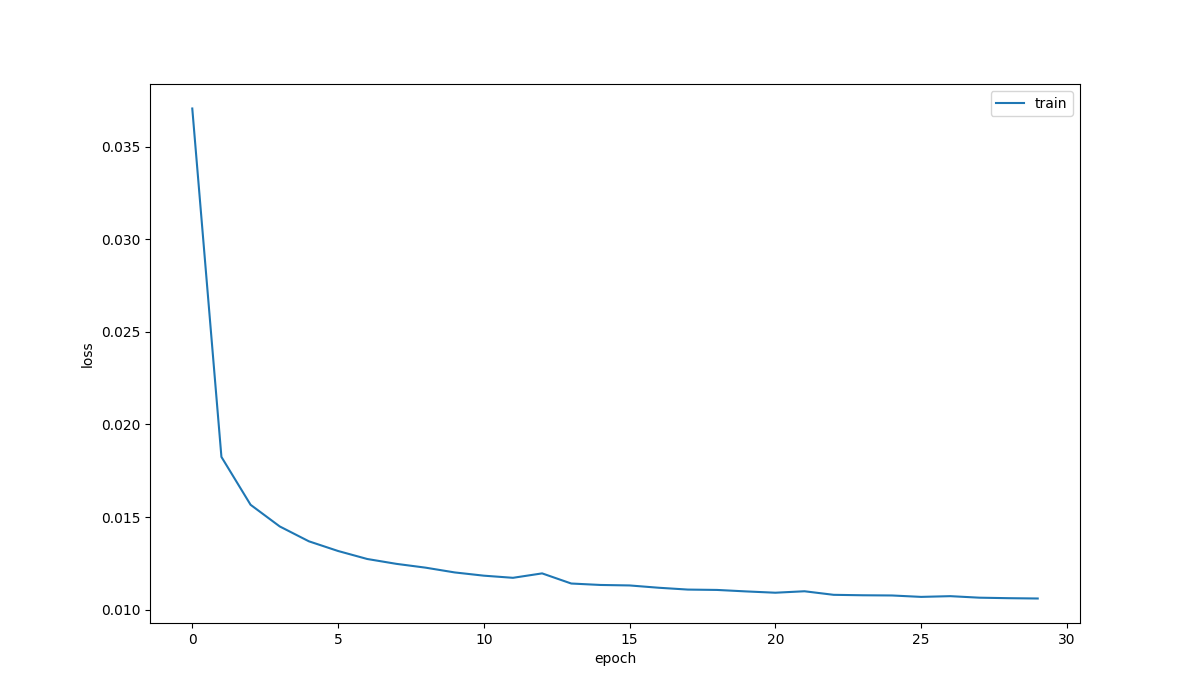
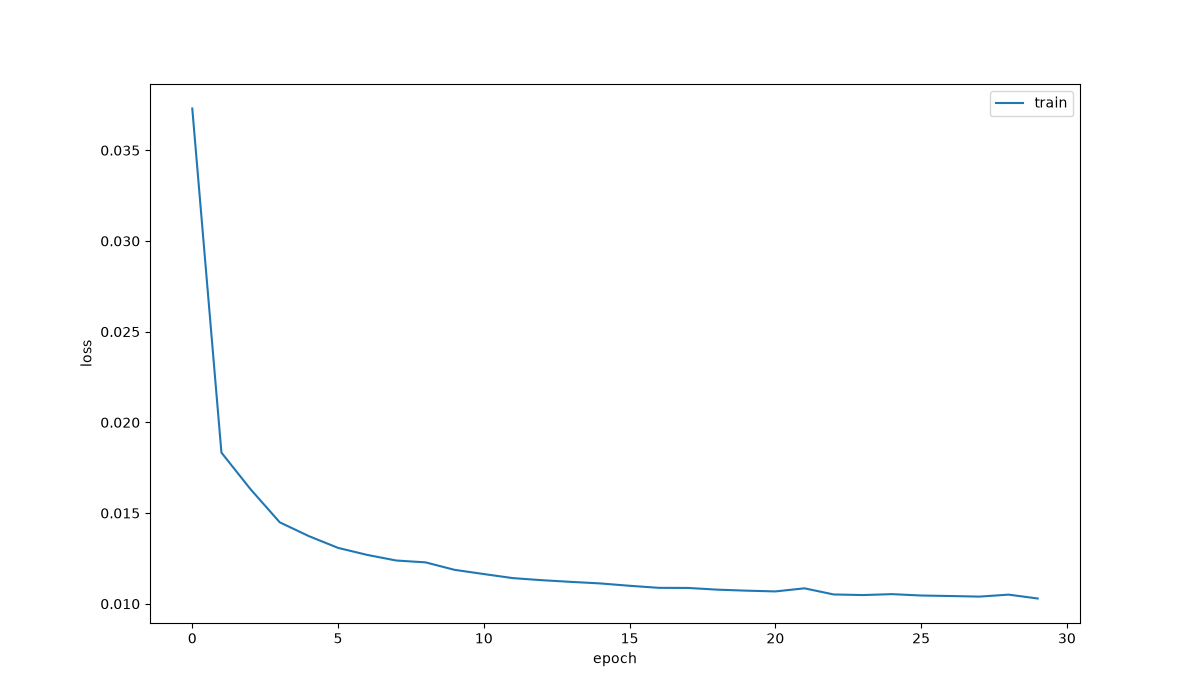
Update lab 1

diff --git a/Assignments/lab1/interpolate.py b/Assignments/lab1/interpolate.py
@@ -1,0 +1,124 @@
+import argparse
+
+import matplotlib.pyplot as plt
+import numpy as np
+import torch
+import torchvision.transforms as transforms
+from torchvision.datasets import FashionMNIST
+
+from model import autoencoderMLP4Layer
+
+DATA_DIR = './data'   # change if using Colab
+
+CLASSES = ['T-shirt/top', 'Trouser', 'Pullover', 'Dress', 'Coat',
+           'Sandal', 'Shirt', 'Sneaker', 'Bag', 'Ankle boot']
+
+n = 8
+
+
+def main():
+    print('running main ...')
+
+    argParser = argparse.ArgumentParser()
+    argParser.add_argument('-s', metavar='state', type=str, help='parameter file (.pth)')
+    argParser.add_argument('-z', metavar='bottleneck size', type=int, help='int [8]')
+
+    args = argParser.parse_args()
+
+    save_file = args.s
+    bottleneck_size = args.z
+
+    device = 'cpu'
+    if torch.cuda.is_available():
+        device = 'cuda'
+    print('\t\tusing device ', device)
+
+    test_transform = transforms.Compose([transforms.ToTensor()])
+    test_set = FashionMNIST(DATA_DIR, train=False, download=False, transform=test_transform)
+
+    N_input = 28 * 28
+    N_output = N_input
+    model = autoencoderMLP4Layer(N_input=N_input, N_bottleneck=bottleneck_size, N_output=N_output)
+    model.load_state_dict(torch.load(save_file, weights_only=True))
+    model.to(device)
+    model.eval()
+
+    print('enter an index from 0 to', len(test_set) - 1, '(or -1 to quit)')
+
+    while True:
+        try:
+            idx1 = int(input('First index > '))
+            idx2 = int(input('Second index > '))
+        except ValueError:
+            print('not an integer')
+            continue
+
+        if (idx1 < 0) or (idx2 < 0):
+            break
+        if (idx1 >= len(test_set)) or (idx2 >= len(test_set)):
+            print('index out of range')
+            continue
+
+        # Print two labels
+        label1 = test_set.targets[idx1].item()
+        label2 = test_set.targets[idx2].item()
+
+        # Images should be from different classes
+        if label1 == label2:
+            continue
+        
+
+        print('label 1 =', label1, '(' + CLASSES[label1] + ')')
+        print('label_2 =', label2, '(' + CLASSES[label2] + ')')
+
+        # 1. Normalize, flatten image, then move to memory
+        img1 = test_set.data[idx1].type(torch.float32) / 255.0
+        img2 = test_set.data[idx2].type(torch.float32) / 255.0
+        img1 = img1.view(1, N_input).to(device=device)
+        img2 = img2.view(1, N_input).to(device=device)
+
+        with torch.no_grad():
+            # 2. Pass through the encoder and return bottleneck tensors
+            z1 = model.encode(img1)
+            z2 = model.encode(img2)
+
+            # 3. Interpolate n new bottleneck tensors
+            a = np.linspace(0, 1, n)
+            mean_tensors = []
+            for i in range(n):
+                z = (1 - a[i]) * z1 + a[i] * z2
+                mean_tensors.append(z)
+
+            # 4. Pass z1, z2 and interpolated tensors through decoder
+            
+            final_outputs = []
+            # First class
+            z1_output = model.decode(z1)
+            final_outputs.append(z1_output)
+            # Interpolated tensors
+            for i in range(n):
+                output = model.decode(mean_tensors[i])
+                final_outputs.append(output)
+            # Second class
+            z2_output = model.decode(z2)
+            final_outputs.append(z2_output)
+
+            # 5. Reshape to 28 * 28 and move to cpu
+            for i in range(n+2):
+                final_outputs[i] = final_outputs[i].view(28, 28).cpu()
+
+            # 6. Plot figure
+            f = plt.figure()
+            for i in range(n + 2):
+                f.add_subplot(1, n+2, i+1)
+                plt.imshow(final_outputs[i], cmap="gray")
+                plt.axis('off')
+                if i == 0:
+                    plt.title(CLASSES[label1]) 
+                elif i == n + 1:
+                    plt.title(CLASSES[label2])
+
+            plt.show()
+
+if __name__ == '__main__':
+    main()

diff --git a/Assignments/lab1/model.py b/Assignments/lab1/model.py
@@ -5,29 +5,24 @@ import torch.nn.functional as F
 
 class autoencoderMLP4Layer(nn.Module):
 
-    def __init__(self, N_input=784, N_bottleneck=32, N_output=784):
+    def __init__(self, N_input=784, N_bottleneck=8, N_output=784):
         super(autoencoderMLP4Layer, self).__init__()
         N2 = N_input // 2
-        self.fc1 = nn.Linear(N_input, N2)
-        self.fc2 = nn.Linear(N2,N_bottleneck)
-        self.fc3 = nn.Linear(N_bottleneck,N2)
-        self.fc4 = nn.Linear(N2, N_output)
-        self.type = 'MLP4'
-        self.input_shape = (1,28*28)
+        # initialize autoencoder layer
+        self.encoder_layer1 = nn.Linear(N_input, N2)
+        self.encoder_layer2 = nn.Linear(N2, N_bottleneck)
+        self.decoder_layer1 = nn.Linear(N_bottleneck, N2)
+        self.decoder_layer2 = nn.Linear(N2, N_output)
 
     def encode(self, X):
-        X = self.fc1(X)
-        X = F.relu(X)
-        X = self.fc2(X)
-        X = F.relu(X)
-        return(X)
+        x = F.relu(self.encoder_layer1(X))
+        x = F.relu(self.encoder_layer2(x))
+        return x
 
     def decode(self, X):
-        X = self.fc3(X)
-        X = F.relu(X)
-        X = self.fc4(X)
-        X = F.sigmoid(X)
-        return(X)
+        x = F.relu(self.decoder_layer1(X))
+        x = torch.sigmoid(self.decoder_layer2(x))
+        return x
 
     def forward(self, X):
         return self.decode(self.encode(X))

diff --git a/Assignments/lab1/denoise.py b/Assignments/lab1/denoise.py
@@ -59,30 +59,29 @@ def main():
         print('label =', label, '(' + CLASSES[label] + ')')
 
         img = test_set.data[idx].type(torch.float32) / 255.0
-    
-
         noise = torch.rand_like(img) * 0.3
-        noise_img = torch.clamp(img + noise, min=0.0,max=1.0)
-        noise_img = noise_img.view(1,N_input).to(device=device)
-
+        noisy_img = torch.clamp(img + noise, min=0.0, max=1.0)
+        noisy_img = noisy_img.view(1, N_input).to(device=device)
 
         with torch.no_grad():
-            output = model(noise_img)
+            output = model(noisy_img)
 
         img = img.view(28, 28).cpu()
+        noisy_img = noisy_img.view(28, 28).cpu()
         output = output.view(28, 28).cpu()
-        noise_img = noise_img.view(28, 28).cpu()
 
         f = plt.figure()
         f.add_subplot(1, 3, 1)
         plt.imshow(img, cmap='gray')
         plt.title('input: ' + CLASSES[label])
+
         f.add_subplot(1, 3, 2)
+        plt.imshow(noisy_img, cmap='gray')
+        plt.title('input: ' + CLASSES[label])
+        
+        f.add_subplot(1, 3, 3)
         plt.imshow(output, cmap='gray')
         plt.title('reconstruction')
-        f.add_subplot(1, 3, 3)
-        plt.imshow(noise_img, cmap='gray')
-        plt.title('input: ' + CLASSES[label] + 'noise')
         plt.show()
 
 

diff --git a/Assignments/lab1/visualize_data.py b/Assignments/lab1/visualize_data.py
@@ -5,10 +5,10 @@ from torchvision.datasets import FashionMNIST
 DATA_DIR = './data'
 
 CLASSES = ['T-shirt/top', 'Trouser', 'Pullover', 'Dress', 'Coat',
-           'Sandal', 'Shirt', 'Sneaker', 'Bag', 'Ankle boot']
+'Sandal', 'Shirt', 'Sneaker', 'Bag', 'Ankle boot']
 
 train_set = FashionMNIST(DATA_DIR, train=True, download=False,
-                          transform=transforms.Compose([transforms.ToTensor()]))
+transform=transforms.Compose([transforms.ToTensor()]))
 
 idx = int(input('index > '))
 img = train_set.data[idx]

diff --git a/Assignments/lab1/train.py b/Assignments/lab1/train.py
@@ -15,11 +15,11 @@ from model import autoencoderMLP4Layer
 DATA_DIR = './data'   # change if using Colab
 
 
-save_file = 'MLP.32.pth'
+save_file = 'MLP.128.pth'
 n_epochs = 30
 batch_size = 256
-bottleneck_size = 32
-plot_file = 'loss.MLP.32.png'
+bottleneck_size = 128
+plot_file = 'loss.MLP.128.png'
 
 
 def train(n_epochs, optimizer, model, loss_fn, train_loader, scheduler, device,
